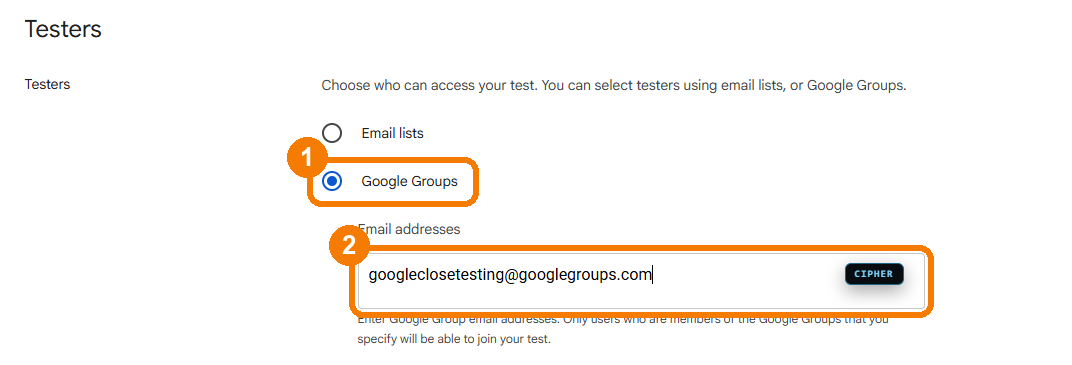
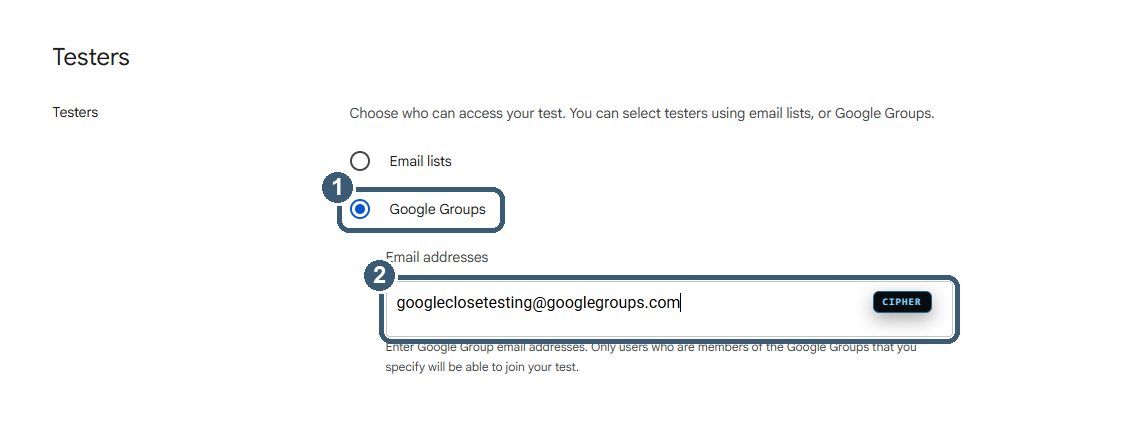
How-to: marks in the app's slate blue with corner numbers; page draws behind the status bar

diff --git a/app/src/main/java/com/eazyverse/testtrack/ui/GroupHowToDialog.kt b/app/src/main/java/com/eazyverse/testtrack/ui/GroupHowToDialog.kt
@@ -25,6 +25,7 @@ import androidx.compose.material3.IconButton
 import androidx.compose.material3.MaterialTheme
 import androidx.compose.material3.Text
 import androidx.compose.runtime.Composable
+import androidx.compose.runtime.SideEffect
 import androidx.compose.runtime.getValue
 import androidx.compose.runtime.mutableStateOf
 import androidx.compose.runtime.saveable.rememberSaveable
@@ -35,6 +36,7 @@ import androidx.compose.ui.draw.clip
 import androidx.compose.ui.draw.drawBehind
 import androidx.compose.ui.geometry.Offset
 import androidx.compose.ui.geometry.isSpecified
+import androidx.compose.ui.platform.LocalView
 import androidx.compose.ui.res.painterResource
 import androidx.compose.ui.text.font.FontWeight
 import androidx.compose.ui.text.style.TextOverflow
@@ -42,6 +44,8 @@ import androidx.compose.ui.unit.dp
 import androidx.compose.ui.unit.sp
 import androidx.compose.ui.window.Dialog
 import androidx.compose.ui.window.DialogProperties
+import androidx.compose.ui.window.DialogWindowProvider
+import androidx.core.view.WindowCompat
 import com.composables.icons.lucide.Lucide
 import com.composables.icons.lucide.RefreshCw
 import com.composables.icons.lucide.X
@@ -80,7 +84,11 @@ internal fun GroupHowToDialog(
     val t = Tt.colors
     // The zoom hint sits under the first picture until a picture is zoomed once.
     var hintSeen by rememberSaveable { mutableStateOf(false) }
-    Dialog(onDismissRequest = onDismiss, properties = DialogProperties(usePlatformDefaultWidth = false)) {
+    Dialog(
+        onDismissRequest = onDismiss,
+        properties = DialogProperties(usePlatformDefaultWidth = false, decorFitsSystemWindows = false),
+    ) {
+        DialogSystemBars(t.isDark)
         val scroll = rememberScrollState()
         Column(Modifier.fillMaxSize().background(t.bg).safeDrawingPadding()) {
             val hair = t.hair
@@ -131,6 +139,29 @@ internal fun GroupHowToDialog(
                 Spacer(Modifier.height(28.dp))
                 SeatBar(state.verifyLabel, Lucide.RefreshCw, busy = state.checking, enabled = !state.checking, onClick = onVerify)
             }
+        }
+    }
+}
+
+/**
+ * Makes this dialog's own window an edge-to-edge page like the rest of the app: no dim, clear bars,
+ * and bar icons in the ink the theme needs. A dialog window is not the activity's, so the
+ * [TestTrackTheme] flags do not reach it. Call it inside the Dialog content.
+ */
+@Composable
+internal fun DialogSystemBars(dark: Boolean) {
+    val view = LocalView.current
+    SideEffect {
+        val window = (view.parent as? DialogWindowProvider)?.window ?: return@SideEffect
+        window.setDimAmount(0f)
+        window.statusBarColor = android.graphics.Color.TRANSPARENT
+        window.navigationBarColor = android.graphics.Color.TRANSPARENT
+        if (android.os.Build.VERSION.SDK_INT >= android.os.Build.VERSION_CODES.Q) {
+            window.isNavigationBarContrastEnforced = false
+        }
+        WindowCompat.getInsetsController(window, view).apply {
+            isAppearanceLightStatusBars = !dark
+            isAppearanceLightNavigationBars = !dark
         }
     }
 }
